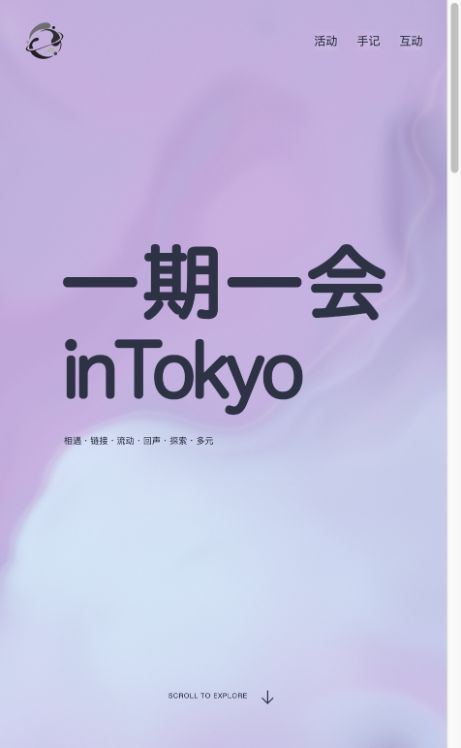
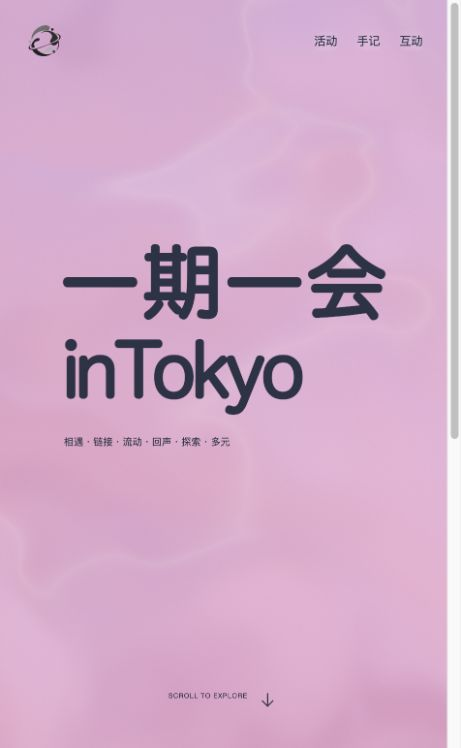
Link public poster sections to Workshop event publication controls

diff --git a/site/tokyo-view.js b/site/tokyo-view.js
@@ -38,6 +38,7 @@ function hero() {
 }
 
 export function tokyoEventInfo(event, { focus = false } = {}) {
+  if (event.posterOnly) return '<h2 class="tk-poster-title"' + (focus ? ' id="tk-focus-title"' : '') + '>' + esc(event.title) + '</h2>';
   return '<div class="tk-event-info' + (focus ? ' tk-focus-info' : ' tk-reveal') + '">' +
     '<p class="tk-eyebrow tk-event-state' + (event.recruiting ? ' is-open' : '') + '"><span></span>' +
     (event.demo ? 'DEMO / 演示海报' : event.recruiting ? '正在募集中 · JOIN US' : event.cancelled ? '活动已取消' : '一期一会 · ENCOUNTER') + '</p>' +
@@ -60,23 +61,19 @@ function poster(event, featured = false) {
 }
 
 function exhibition(events) {
-  const [featured, ...remaining] = events;
-  return '<section class="tk-exhibition" id="tk-events" aria-label="活动海报"><div class="tk-section-caption tk-reveal">' +
-    '<span>相遇，在这里发生。</span><span>' + (featured?.demo ? 'DEMO GALLERY / 演示海报' : 'ENCOUNTERS, IN TOKYO') + '</span></div>' +
-    (featured ? '<div class="tk-featured"><div class="tk-featured-art tk-reveal">' + poster(featured, true) +
-      '<span class="tk-art-caption">01 / ' + String(events.length).padStart(2, '0') + '</span></div>' + tokyoEventInfo(featured) + '</div>' :
-      '<div class="tk-featured tk-empty-featured"><div class="tk-placeholder-art tk-reveal" role="img" aria-label="活动海报占位，暂无已公开活动">' +
-      '<span class="tk-placeholder-label">POSTER PLACEHOLDER / 海报占位</span><div class="tk-placeholder-orbit" aria-hidden="true"></div>' +
-      '<strong>下一次<br><span>相 遇</span></strong><span class="tk-placeholder-foot">一期一会 inTokyo <span>TO BE CONTINUED ↗</span></span></div>' +
-      '<div class="tk-event-info tk-reveal"><h2>下一次相遇，<br>正在酝酿。</h2>' +
-      '<p class="tk-event-description">还没有已公开的活动。<br>等下一张海报，带来新的相遇。</p><p class="tk-empty-note">活动公开后，将自动出现在这里。</p></div></div>') +
-    '<div class="tk-gallery-heading tk-reveal"><h2>相遇的切片<span>THE POSTER ARCHIVE</span></h2><span class="tk-gallery-count">' +
-      String(events.length).padStart(2, '0') + (featured?.demo ? ' DEMO POSTERS' : ' ENCOUNTERS') + '</span></div>' +
-    (remaining.length ? '<div class="tk-mosaic" aria-label="更多公开活动海报">' + remaining.map((event, i) =>
-      '<div class="tk-mosaic-item tk-reveal tk-mosaic-' + i % 7 + '">' + poster(event) + '</div>').join('') + '</div>' :
-      '<div class="tk-empty-archive tk-reveal"><span class="tk-archive-star" aria-hidden="true">' + mark + '</span><p>' +
-      (featured ? '下一张海报，下一段故事。' : '画廊留白，等待相遇。') + '</p><span>' +
-      (featured ? '更多公开海报将在这里继续。' : '暂无已公开的活动海报') + '</span></div>') + '</section>';
+  const [featured] = events;
+  const group = (rows, label) => rows.length ? '<div class="tk-gallery-heading tk-reveal"><h2>' + label + '</h2></div>' +
+    '<div class="tk-mosaic" aria-label="' + label + '海报">' + rows.map((event, i) =>
+      '<div class="tk-mosaic-item tk-reveal tk-mosaic-' + i % 7 + '">' + poster(event) + '</div>').join('') + '</div>' : '';
+  const remaining = events.slice(1);
+  return '<section class="tk-exhibition" id="tk-events" aria-label="活动海报">' +
+    (featured ? '<div class="tk-section-caption tk-reveal"><span>' + (featured.recruiting ? '募集中' : featured.ended ? '已结束' : '活动海报') +
+      '</span><span>' + (featured.demo ? 'DEMO GALLERY / 演示海报' : '') + '</span></div>' +
+      '<div class="tk-featured' + (featured.posterOnly ? ' tk-poster-only' : '') + '"><div class="tk-featured-art tk-reveal">' +
+      poster(featured, true) + '</div>' + (featured.posterOnly ? '' : tokyoEventInfo(featured)) + '</div>' +
+      group(remaining.filter(e => e.recruiting), '募集中') + group(remaining.filter(e => !e.recruiting && (e.ended || e.demo)), '已结束') +
+      group(remaining.filter(e => !e.recruiting && !e.ended && !e.demo), '活动海报') :
+      '<div class="tk-empty-archive"><p>暂无公开海报</p><span>Workshop 中上传海报并选择「募集中」或「已结束」后，将自动显示在这里。</span></div>') + '</section>';
 }
 
 function footer() {
@@ -96,7 +93,7 @@ function dialogs() {
     xiaohongshu + '<h2 id="tk-contact-title">在小红书，再相遇。</h2><p>活动账号链接将在这里补充。</p></dialog>';
 }
 
-export function tokyoView({ pageId = 'home', page, showDemo = true } = {}) {
+export function tokyoView({ pageId = 'home', page, showDemo = false } = {}) {
   const events = exhibitionEvents(publicRepository.activities(), { showDemo });
   const exhibitionPage = ['home', 'activities'].includes(pageId);
   return '<div class="tk-shell' + (pageId !== 'home' ? ' tk-inner-page' : '') + '" data-tk-root>' +

diff --git a/tests/public-events.test.js b/tests/public-events.test.js
@@ -1,7 +1,10 @@
 import assert from 'node:assert/strict';
 import test from 'node:test';
 import { eventPoster, isPublicEvent, publicEvents } from '../site/public-event-data.js';
-import { emptyStudio, studioStore } from '../site/studio-data.js';
+import { emptyStudio, studioStore, saveEvent } from '../site/studio-data.js';
+import { saveMetadata } from '../site/workshop-event-actions.js';
+import { eventDetail } from '../site/workshop-event-view.js';
+import { studioExport } from '../site/studio-migration.js';
 import { tokyoView } from '../site/tokyo-view.js';
 import { demoPosters, exhibitionEvents } from '../site/tokyo-demo.js';
 import { publicRepository } from '../site/repository.js';
@@ -10,6 +13,41 @@ import { SaxesParser } from 'saxes';
 
 const now = new Date('2026-11-18T16:00:00Z'); // Nov 19 in Tokyo
 const event = (id, extra = {}) => ({ id, title: id, date: '2026-12-01', visibility: 'public', status: 'planned', ...extra });
+
+test('Workshop metadata publishes a poster to its selected section, persists, and can withdraw it', () => {
+  const state = emptyStudio();
+  const original = saveEvent(state, { title: '测试海报', description: '私有说明', body: '主持稿' });
+  const form = new FormData();
+  form.set('title', original.title); form.set('posterUrl', 'https://example.com/poster.png');
+  form.set('status', 'draft'); form.set('tokyoPosterStatus', 'recruiting');
+  const open = saveMetadata(state, original, form);
+  assert.equal(open.status, 'recruiting');
+  const [publicPoster] = publicEvents(state);
+  assert.equal(publicPoster.recruiting, true);
+  assert.equal(publicPoster.posterOnly, true);
+  assert.equal(publicPoster.description, '');
+  assert.equal(studioExport(state).events[0].tokyoPosterStatus, 'recruiting');
+  form.set('tokyoPosterStatus', 'ended');
+  form.set('status', open.status);
+  const ended = saveMetadata(state, open, form);
+  assert.equal(publicEvents(state)[0].ended, true);
+  assert.equal(publicEvents(state)[0].recruiting, false);
+  form.set('tokyoPosterStatus', '');
+  form.set('status', ended.status);
+  saveMetadata(state, ended, form);
+  assert.deepEqual(publicEvents(state), []);
+});
+
+test('linked posters require an uploaded image or poster URL; Event editor starts hidden', () => {
+  const state = emptyStudio();
+  const row = saveEvent(state, { title: '无海报', status: 'completed', tokyoPosterStatus: 'ended' });
+  assert.deepEqual(publicEvents(state), []);
+  const before = studioStore.state;
+  try {
+    studioStore.receiveCloud(state, 0);
+    assert.match(eventDetail({ event: row, params: new URLSearchParams() }), /data-event-editor hidden/);
+  } finally { studioStore.receiveCloud(before, before.revision); }
+});
 
 test('public projection excludes drafts, private previews, withdrawn and other brands', () => {
   for (const row of [event('draft', { status: 'draft' }), event('private', { visibility: 'private' }),
@@ -61,7 +99,7 @@ test('empty homepage has labelled placeholders and no fabricated event, open sta
     const html = tokyoView({ showDemo: false });
     assert.match(html, /一期一会inTokyo/);
     assert.match(html, /相遇・链接・流动・回声・探索・多元/);
-    assert.match(html, /POSTER PLACEHOLDER/);
+    assert.match(html, /暂无公开海报/);
     assert.doesNotMatch(html, /data-tk-poster=/);
     assert.doesNotMatch(html, /正在募集中/);
     assert.doesNotMatch(html, /查看活动 \/ 报名/);
@@ -87,7 +125,7 @@ test('demo posters are isolated presentation data and real public events take pr
   try {
     studioStore.receiveCloud(emptyStudio(), 0);
     const snapshot = structuredClone(studioStore.state);
-    const html = tokyoView();
+    const html = tokyoView({ showDemo: true });
     assert.equal((html.match(/data-tk-poster=/g) ?? []).length, 8);
     assert.match(html, /DEMO GALLERY/);
     assert.doesNotMatch(html, /正在募集中|查看活动 \/ 报名/);

diff --git a/site/tokyo.css b/site/tokyo.css
@@ -20,7 +20,7 @@
 .tk-shell svg { stroke: currentColor; stroke-width: 1.3; }
 .tk-shell button { border-radius: 0; }
 .tk-brand-logo { position: absolute; top: max(28px, env(safe-area-inset-top)); left: max(clamp(24px, 4.5vw, 88px), env(safe-area-inset-left)); z-index: 20; display: grid; place-items: center; width: 52px; height: 52px; transition: opacity .3s; }
-.tk-brand-logo img { display: block; width: 48px; height: 48px; object-fit: contain; }
+.tk-brand-logo img { display: block; width: 40px; height: 40px; object-fit: contain; }
 .tk-nav {
   position: fixed; top: max(28px, env(safe-area-inset-top)); right: max(clamp(24px, 4.5vw, 88px), env(safe-area-inset-right));
   display: flex; align-items: center; gap: 24px; padding: 0 14px;
@@ -59,7 +59,7 @@
 .tk-title-cn > span:nth-child(3) { --i: 2; }
 .tk-title-cn > span:nth-child(4) { --i: 3; }
 .tk-title-en { display: flex; align-items: center; justify-content: flex-start; gap: .11em; font-size: clamp(62px, 6.5vw, 114px); letter-spacing: -.065em; margin: .05em .025em 0 0; animation: tk-title-in 1.6s .45s var(--tk-ease) both; }
-.tk-subtitle { margin-top: 25px; margin-left: .4%; font-size: 10px; letter-spacing: .035em; opacity: .68; animation: tk-fade-in 1s 1s both; }
+.tk-subtitle { margin-top: 25px; margin-left: .4%; font-size: 11px; letter-spacing: .035em; opacity: .68; animation: tk-fade-in 1s 1s both; }
 .tk-hero-bottom { position: absolute; bottom: max(34px, env(safe-area-inset-bottom)); left: 5%; right: 5%; display: grid; grid-template-columns: 1fr auto 1fr; align-items: center; animation: tk-fade-in 1s 1.3s both; }
 .tk-scroll { grid-column: 2; display: flex; align-items: center; gap: 19px; min-height: 44px; padding-inline: 10px; font-size: 9px; letter-spacing: .15em; }
 .tk-scroll svg { width: 30px; height: 30px; transform: rotate(90deg); animation: tk-scroll-drift 3s ease-in-out infinite; }
@@ -192,14 +192,14 @@
 @media (max-width: 767px) {
   .tk-hero { min-height: 620px; height: 100svh; }
   .tk-brand-logo { top: max(20px, env(safe-area-inset-top)); left: max(24px, env(safe-area-inset-left)); width: 44px; height: 44px; }
-  .tk-brand-logo img { width: 42px; height: 42px; }
+  .tk-brand-logo img { width: 36px; height: 36px; }
   .tk-nav { top: max(20px, env(safe-area-inset-top)); right: max(15px, env(safe-area-inset-right)); gap: 16px; padding: 0 8px; }
   .tk-nav :is(a, button) { font-size: 12px; padding-inline: 2px; gap: 5px; }
   .tk-nav.is-compact { gap: 16px; padding: 1px 16px; }
   .tk-title-wrap { width: 72%; min-width: 0; max-width: 360px; left: 50%; top: 32%; bottom: auto; padding: 0; transform: translateX(-50%); }
   .tk-title-cn { font-size: min(17vw, 85px); margin-left: -.02em; }
   .tk-title-en { font-size: min(15.8vw, 79px); margin-top: .12em; gap: 0; justify-content: flex-start; }
-  .tk-subtitle { font-size: 9px; letter-spacing: .01em; margin-top: 30px; }
+  .tk-subtitle { font-size: 10px; letter-spacing: .01em; margin-top: 30px; }
   .tk-hero-bottom { left: 7%; right: 7%; bottom: max(32px, env(safe-area-inset-bottom)); }
   .tk-scroll { gap: 9px; font-size: 7px; letter-spacing: .08em; padding: 0; }
   .tk-scroll svg { width: 23px; height: 23px; }
@@ -268,3 +268,6 @@
 @keyframes tk-fade-out { from { opacity: 1; } to { opacity: 0; } }
 @keyframes tk-info-in { from { opacity: 0; transform: translateY(16px); } to { opacity: 1; transform: none; } }
 @keyframes tk-scroll-drift { 0%, 100% { translate: 0 0; } 50% { translate: 0 5px; } }
+
+.tk-featured.tk-poster-only { grid-template-columns: minmax(0, 1fr); padding-inline: 0; }
+.tk-poster-title { font-size: 18px; font-weight: 500; overflow-wrap: anywhere; }

diff --git a/site/workshop-event-view.js b/site/workshop-event-view.js
@@ -9,7 +9,7 @@ import { usageFields as eventUsageLabels, usageStatuses, usageTextLimit } from '
 
 export const areaLabels = { overview: 'Overview', flow: 'Flow', resources: 'Resources', review: 'Records & Review' };
 export const initialSections = { overview: 'overview', flow: 'flow', resources: 'artifact', review: 'review' };
-export const eventStatuses = { draft: '草稿', planned: '计划中', completed: '已完成', cancelled: '已取消' };
+export const eventStatuses = { draft: '草稿', planned: '计划中', recruiting: '募集中', completed: '已结束', cancelled: '已取消' };
 export const eventStatus = event => Object.hasOwn(eventStatuses, event.status) ? eventStatuses[event.status] : event.status || '';
 
 export const option = (value, label, selected = false) =>
@@ -70,7 +70,11 @@ export function metadataFields(state, event) {
     select('status', '状态', [['', '未设置'], ...Object.entries(statuses)], event.status || '') + '</div>' +
     '<div class="event-field-pair">' + Object.entries(eventFields).map(([key, label]) =>
       field(key, label, event[key], key === 'date' && (!event.date || /^\d{4}-\d{2}-\d{2}$/.test(event.date)) ? 'type="date"' : '')).join('') +
-    '</div><details><summary>海报与活动形式</summary><div class="event-field-pair">' +
+    '</div><fieldset class="event-checks"><legend>一期一会公开海报</legend><p class="work-meta">仅展示本场海报；不公开主持稿、流程或记录。保存后同步到公开页。</p>' +
+    [['', '不展示'], ['recruiting', '募集中'], ['ended', '已结束']].map(([value, label]) =>
+      '<label class="work-check"><input type="radio" name="tokyoPosterStatus" value="' + value + '"' +
+      ((event.tokyoPosterStatus || '') === value ? ' checked' : '') + '>' + label + '</label>').join('') +
+    '</fieldset><details><summary>海报与活动形式</summary><div class="event-field-pair">' +
     field('posterUrl', '海报链接', event.posterUrl, 'placeholder="https://"') +
     fileControl('cover', '上传海报', 'accept="' + imageTypes.join(',') + '"') + '</div>' +
     (event.coverAssetId || event.coverUrl ? check('clearCover', '移除原封面', false) : '') +
@@ -291,7 +295,7 @@ export function eventDetail({ event, params }) {
       '</div></div>' + (content[area] || '') + documents + history + '</section>';
   }).join('');
   return '<article class="event-workspace event-detail" data-event-detail="' + esc(event.id) + '">' + header +
-    '<div data-event-copy-slot></div><form class="event-inline-form event-editor" data-event-editor>' +
+    '<div data-event-copy-slot></div><form class="event-inline-form event-editor" data-event-editor hidden>' +
     '<div class="section-heading"><h2>编辑器</h2><span data-event-edit-label></span></div>' +
     select('area', '目标区域', Object.entries(areaLabels), Object.hasOwn(areaLabels, requested) ? requested : 'overview') +
     '<div data-event-fields></div><div class="event-form-actions"><button type="submit" class="action-button">' +

diff --git a/site/workshop-event-actions.js b/site/workshop-event-actions.js
@@ -59,14 +59,19 @@ function readEventUsage(data) {
     ...Object.fromEntries(Object.keys(usageFields).map(key => [key, value(data, 'usage-' + key)]).filter(([, text]) => text)) };
 }
 
-function saveMetadata(state, event, data, cover) {
+export function saveMetadata(state, event, data, cover) {
+  const requestedStatus = value(data, 'status');
+  const tokyoPosterStatus = requestedStatus === 'cancelled' || (requestedStatus === 'draft' && event.status !== 'draft')
+    ? '' : value(data, 'tokyoPosterStatus');
+  if (!['', 'recruiting', 'ended'].includes(tokyoPosterStatus)) throw new Error('请选择公开海报状态。');
   const posterUrl = value(data, 'posterUrl');
   if (posterUrl && !safeUrl(posterUrl)) throw new Error('海报链接须使用 HTTPS 或站内路径。');
   const fields = Object.fromEntries(Object.keys(eventFields).map(key => [key, value(data, key)]));
   const title = value(data, 'title');
   const publicationChanged = title !== event.title || fields.date !== (event.date || '') || fields.theme !== (event.theme || '');
   return saveEvent(state, { ...fields, id: event.id, title, posterUrl, tagIds: tags(state, data),
-    projectId: value(data, 'projectId'), status: value(data, 'status'), formats: data.getAll('format'),
+    projectId: value(data, 'projectId'), tokyoPosterStatus,
+    status: tokyoPosterStatus === 'recruiting' ? 'recruiting' : tokyoPosterStatus === 'ended' ? 'completed' : value(data, 'status'), formats: data.getAll('format'),
     coverAssetId: cover ? addAsset(state, cover) : data.has('clearCover') ? '' : event.coverAssetId,
     ...(data.has('clearCover') && { coverUrl: '' }),
     ...(publicationChanged && { workshopPublication: undefined }),
@@ -202,6 +207,7 @@ export function initWorkshopEventActions(app, render) {
     if (!canReplace(form)) return;
     discard(form);
     setEditor(form, area, id, after, mode, assetId);
+    form.hidden = false;
     form.scrollIntoView({ block: 'nearest' });
     (form.querySelector('[data-event-fields] :is(input:not([type=checkbox]), select, textarea, button)') ??
       control(form, 'area')).focus({ preventScroll: true });
@@ -514,7 +520,10 @@ export function initWorkshopEventActions(app, render) {
     } else if (form && data.eventTarget) {
       revealEditor(form, data.eventTarget, data.eventEdit, data.eventAfter, '', data.eventAsset);
     } else if (form && Object.hasOwn(data, 'eventEditorReset')) {
-      revealEditor(form, 'overview');
+      if (!canReplace(form)) return;
+      discard(form);
+      form.hidden = true;
+      form.querySelector('[data-event-fields]').replaceChildren();
     } else if (form && Object.hasOwn(data, 'eventResourceDocument')) {
       revealEditor(form, 'resources', '', '', 'document');
     } else if (form && Object.hasOwn(data, 'eventReuseFlow')) {

diff --git a/site/public-event-data.js b/site/public-event-data.js
@@ -9,6 +9,7 @@ const text = value => typeof value === 'string' ? value.trim() : '';
 export function isPublicEvent(event, brandId = 'yiqiyihui') {
   if (!event || event.deletedAt || event.archivedAt || unpublishedStates.has(event.status) || event.status === 'archived') return false;
   if (event.brandId && ![brandId, 'tokyo'].includes(event.brandId)) return false;
+  if (Object.hasOwn(event, 'tokyoPosterStatus')) return ['recruiting', 'ended'].includes(event.tokyoPosterStatus) && event.status !== 'cancelled';
   if (event.visibility && event.visibility !== 'public') return false;
   const publication = event.publication ?? event.workshopPublication;
   if (publication?.status && unpublishedStates.has(publication.status)) return false;
@@ -31,14 +32,15 @@ export function publicEvents(state, { brandId = 'yiqiyihui', now = new Date() } 
     const cancelled = event.status === 'cancelled';
     const closedAt = Date.parse(event.registrationClosesAt ?? '');
     const ended = /^\d{4}-\d{2}-\d{2}$/.test(event.date) && event.date < today;
-    const recruiting = !cancelled && !ended && !(Number.isFinite(closedAt) && closedAt <= now.getTime()) &&
+    const posterOnly = ['recruiting', 'ended'].includes(event.tokyoPosterStatus);
+    const recruiting = posterOnly ? event.tokyoPosterStatus === 'recruiting' : !cancelled && !ended && !(Number.isFinite(closedAt) && closedAt <= now.getTime()) &&
       recruitingStates.has(event.recruitmentStatus ?? event.status);
     return {
-      id: event.id, title: text(event.title) || '未命名活动', date: text(event.date), time: text(event.time),
-      location: text(event.location), description: text(event.publicDescription ?? event.description ?? event.theme),
-      poster: eventPoster(event, state.assets), recruiting, cancelled,
-      registrationUrl: cancelled ? '' : safeUrl(event.registrationUrl ?? event.signupUrl),
+      id: event.id, title: text(event.title) || '未命名活动', date: text(event.date), time: posterOnly ? '' : text(event.time),
+      location: posterOnly ? '' : text(event.location), description: posterOnly ? '' : text(event.publicDescription ?? event.description ?? event.theme),
+      poster: eventPoster(event, state.assets), recruiting, cancelled, posterOnly, ended: event.tokyoPosterStatus === 'ended' || event.status === 'completed',
+      registrationUrl: cancelled || posterOnly ? '' : safeUrl(event.registrationUrl ?? event.signupUrl),
     };
-  }).sort((a, b) => Number(b.recruiting) - Number(a.recruiting) ||
+  }).filter(event => !event.posterOnly || event.poster).sort((a, b) => Number(b.recruiting) - Number(a.recruiting) ||
     (b.date || '').localeCompare(a.date || '') || String(a.id).localeCompare(String(b.id)));
 }

diff --git a/site/app.js b/site/app.js
@@ -682,6 +682,12 @@ window.addEventListener('hashchange', async () => {
 async function pollStudioContent({ manual = false } = {}) {
   if (document.visibilityState !== 'visible' || app.querySelector('dialog[open]')) return;
   const route = readRoute(location.hash);
+  if (route.type === 'public' && studioSync.mode === 'local') {
+    const before = studioStore.state.revision;
+    await studioStore.load({ refresh: true }).catch(() => {});
+    if (studioStore.state.revision !== before) render();
+    return;
+  }
   if (renderedDay !== dateKey() && (route.type === 'calendar' || route.collectionId === 'auto' || isBoardOverview(route))) render();
   const changed = await refreshStudioSync({ manual });
   if (readRoute(location.hash).type === 'capture') { void refreshInbox?.(); return; }

diff --git a/site/tokyo-interactions.js b/site/tokyo-interactions.js
@@ -99,7 +99,7 @@ export function mountTokyo(app) {
   }
   async function openPoster(button) {
     if (dialog.open || closing) return;
-    const event = exhibitionEvents(publicRepository.activities()).find(row => row.id === button.dataset.tkPoster);
+    const event = exhibitionEvents(publicRepository.activities(), { showDemo: false }).find(row => row.id === button.dataset.tkPoster);
     if (!event) return;
     trigger = button;
     sourceImage = button.querySelector('img');

diff --git a/site/studio-data.js b/site/studio-data.js
@@ -314,7 +314,8 @@ export function createStudioStore(open = database) {
       receivedCloud = true;
       state = { ...normalizeStudio(snapshot), revision };
     },
-    load() {
+    load({ refresh = false } = {}) {
+      if (refresh && !receivedCloud) pending = undefined;
       pending ??= (async () => {
         db ??= await open();
         const snapshot = await new Promise((resolve, reject) => {

diff --git a/docs/tokyo-home.md b/docs/tokyo-home.md
@@ -18,13 +18,17 @@
 
 ## 数据与当前占位
 
-活动继续来自 `startStudioSync()` / `refreshStudioSync()` 使用的现有云端 Studio snapshot；静态本地预览继续使用 IndexedDB。仅接受 `visibility: public`，或明确的 `publication.status: published` / `workshopPublication.status: published`。显式私有、unlisted、草稿、撤回、删除、归档及其他品牌均排除。现有 `workshopPublication.preview` 只是私有预览，绝不据此公开活动。
+活动继续来自 `startStudioSync()` / `refreshStudioSync()` 使用的现有云端 Studio snapshot；静态本地预览继续使用 IndexedDB。新联动优先使用明确勾选的 `tokyoPosterStatus: recruiting / ended` 作为仅海报的公开授权；兼容原有 `visibility: public`，或明确的 `publication.status: published` / `workshopPublication.status: published`。显式私有、unlisted、草稿、撤回、删除、归档及其他品牌均排除。现有 `workshopPublication.preview` 只是私有预览，绝不据此公开活动。
 
-公开字段仅限活动 ID、标题、日期／时间、地点、公开简介（`publicDescription`，其次 `description` / `theme`）、海报和真实报名 URL。不会读取 Project 文档、主持稿、参与者、现场记录等私有信息。海报复用 `coverAssetId` 指向的已有图片，或 `posterUrl` / `coverUrl`。
+旧发布投影字段仅限活动 ID、标题、日期／时间、地点、公开简介（`publicDescription`，其次 `description` / `theme`）、海报和真实报名 URL。不会读取 Project 文档、主持稿、参与者、现场记录等私有信息。海报复用 `coverAssetId` 指向的已有图片，或 `posterUrl` / `coverUrl`。
 
 明确的 `open` / `recruiting` / `registration_open` 优先，其他活动按日期倒序。活动日期已过、报名截止时间已过或活动取消时，不显示“正在募集中”；`planned` 不自动等同于募集中。日期按东京时区判断。主推海报作为展览第一张，其余海报继续拼贴，第一张不重复。
 
-现有发布功能尚未配置真实公开入口。按用户要求，无真实公开活动时显示 8 张 Demo 海报，用于浏览动态效果；海报及详情均明确标注演示，不提供虚构日期、募集中状态或报名入口。展示层 `exhibitionEvents()` 独立于公开活动投影：有真实公开活动时自动使用真实活动；`showDemo: false` 可查看原有空状态。演示海报不保存进 IndexedDB 或生产云端。副标题暂定为「相遇・链接・流动・回声・探索・多元」。手记文章、互动卡牌内容及小红书账号链接待补充。
+Workshop Event 的「编辑 Event 基础信息」内提供「一期一会公开海报」单选：不展示／募集中／已结束。上传海报并保存后，`tokyoPosterStatus` 随既有 Studio snapshot 一起保存，不新增数据库或存储。募集中及已结束分别展示，未上传图片、未勾选、草稿、删除或归档的内容不进入公开海报区。取消勾选（不展示）立即撤回此海报。公开海报授权仅作用于海报，不公开活动简介、主持稿、流程、资源与记录；活动标题保留用于无障碍标签和聚焦标题，其余文字之后确定。人工勾选的海报状态优先，不按旧日期自动改组。
+
+默认关闭 Demo 回退；无已勾选的海报时显示真实空状态。`showDemo: true` 仍可在独立验收中使用演示素材。Event 默认阅读模式隐藏编辑器；点击基础信息编辑、内容编辑或添加动作才显示输入框，保存或取消后收起，未提交草稿保留现有保护。
+
+公开页沿用现有云端刷新；本地预览在切回标签页或定期刷新时重新读取 IndexedDB，以同步其他 Workshop 标签页的保存结果。左上角图标略缩小、副标题增大一号，主推海报不再显示序号。
 
 Worker 的既有 Access 与云端权限不变；此改造不把私有 Studio 服务变成匿名公共服务，也不改变生产部署配置。
 
@@ -40,7 +44,7 @@ Shader 只在 Hero 可见且文档前台时运行；小屏 DPR 上限 1，大屏
 
 ## 验收
 
-运行 `npm test`（72 项通过）。本轮浏览器检查覆盖 375、390、430、600、768、1280、1440、1920px；使用八张横／竖 Demo 海报检查不重复的主推、拼贴、详情、FLIP 中间帧、关闭／Escape、下滑退出、焦点和滚动位置恢复。另检查纯文字悬浮导航、手记／互动路由、小红书占位及既有 Worker CSP 下的 SVG 加载和聚焦。前一轮已覆盖 WebGL 禁用、减少动态效果、鼠标扰动、离屏暂停、长简介独立滚动、图片失效和私有入口。
+运行 `npm test`（74 项通过）。本轮浏览器检查覆盖 375、390、430、600、768、1280、1440、1920px；使用八张横／竖 Demo 海报检查不重复的主推、拼贴、详情、FLIP 中间帧、关闭／Escape、下滑退出、焦点和滚动位置恢复。另检查纯文字悬浮导航、手记／互动路由、小红书占位及既有 Worker CSP 下的 SVG 加载和聚焦。前一轮已覆盖 WebGL 禁用、减少动态效果、鼠标扰动、离屏暂停、长简介独立滚动、图片失效和私有入口。
 
 没有执行生产部署，也没有写入生产活动。
 
